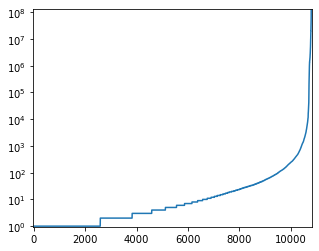
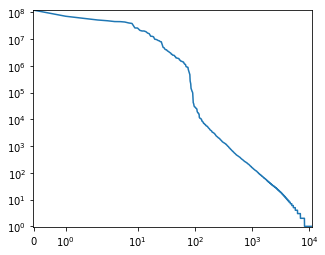
Add more stuff to the data exploration

diff --git a/thesis/thesis.html b/thesis/thesis.html
@@ -696,16 +696,74 @@ MathJax = {
 
     <h4 style="clear: both; padding-top: 30px;">Възможни символи</h4>
 
+    <p>
+      Броят символи, които се срещат в текстовете на статиите е 10797. Във <i>фиг. 3</i> е представена честотата на
+      срещане на всеки символ. Най-вляво по хоризонтала са изобразени най-често срещаните символи, а
+      най-вдясно&mdash;най-рядко срещаните, като скалата е логаритмична (т.е. на числото <i>n</i> отговаря n-тия
+      най-често срещан символ). По вертикала са изобразени броят срещания за всеки символ&mdash;отново върху
+      логаритмична скала.
+    </p>
+
+    <div style="float: left; margin: 10px 30px 10px 0;">
+      <img src="chars-density.png">
+      <i style="display: block; padding-left: 30px;">(фиг. 3)</i>
+    </div>
+
+    <p>
+      За такъв тип данни очакваме да важи емпирично установеният закон на Ципф<a href="#reference-zipfs-law"><sup>[x]</sup></a>.
+      Върху логаритмично-логаритмична графика това би изглеждало като права линия от най-често срещания символ (горе-ляво)
+      до най-рядко срещания (долу-дясно). Откриваме интересно отклонение в рамките на първите 100 символа. Освен това
+      е интересно, че ако разгледаме единствено 10-те най-често срещани символа, те изпълняват закона на Ципф.
+      С известно отклонение&mdash;същото може да се каже и първите 90 символа.
+    </p>
+
+    <p>
+      Първоначалната интуиция на автора е, че първите 10 символа изпъкват, защото са част от Wikitext синтаксиса.
+      При проверка се оказва, че символите са: интервал и буквите <i>e</i>, <i>a</i>, <i>t</i>, <i>i</i>, <i>o</i>, <i>n</i>, <i>r</i>, <i>s</i>, <i>l</i>.
+      Интуицията е невярна. Но в рамките на следващите 90 символа могат да бъдат видени символите от Wikitext синтаксиса.
+      Също така там се среща цялата латиница, всички десетични цифри, много пунктуационни знаци и кирилската буква <i>и</i>.
+    </p>
+
     <div>
-      <div style="float: left;">
-        <img src="chars-density.png">
-        <i style="display: block; padding-left: 30px;">(фиг. 3)</i>
-      </div>
-      <div style="float: left; margin-top: 3px;">
+      <div style="float: left; margin: 10px 30px 10px 0;">
         <img src="chars-distribution.png">
         <i style="display: block; padding-left: 30px;">(фиг. 4)</i>
       </div>
     </div>
+
+    <p>
+      Интересен е и друг прочит на данните. Графиката във <i>фиг. 4</i> изброява по хоризонтала символите по честота на
+      срещане&mdash;подобно на <i>фиг. 3</i>, но този път по линейна скала. За всеки символ по вертикала са разположени
+      сумата от броя срещанията на въпросния символ, както и броят срещания на всички по-рядко срещани от него символи.
+      Така <i>фиг. 4</i> до известна степен прилича на графика на дискретното кумулативно разпределение, но ротирано
+      около ординатната ос. Изобразени по този начин, данните могат да отговорят на въпроса:
+    </p>
+
+    <div style="text-align: center;">
+      ако се вземе подмножеството от <i>n</i> на брой най-често срещани символа,<br>
+      каква част от символите в набора от данни<br>
+      ще бъдат извън въпросното множество?
+    </div>
+
+    Например:
+    <ul>
+      <li>
+        ако се вземат първите 2000 символа, ще останат ~10<sup>5</sup> символа в набора от данни, които не са сред
+        тези 2000 символа;
+      </li>
+      <li>Ако се вземат 6000 символа, ще останат ~10<sup>4</sup>;</li>
+      <li>При 10000 символа, ще останат ~10<sup>3</sup>.</li>
+    </ul>
+
+    В граничните случаи:
+    <ul>
+      <li>ако се вземат всички символи, ще останат 0 невзети (долу-дясно в графиката);</li>
+      <li>ако не се вземат никакви символи, всички ще останат невзети (горе-ляво в графиката).</li>
+    </ul>
+
+    <p>
+      Тази интерпретация намира приложение в глава "7.2 Размер на азбуката".
+    </p>
 
     <h4 style="clear: both; padding-top: 30px;">Малки и големи букви</h4>
 
@@ -730,9 +788,9 @@ MathJax = {
     <h4 style="clear: both; padding-top: 30px;">Заглавия</h4>
 
     <div style="display: inline-flex;">
-      <div style="float: left; margin: 10px 30px 0 0;">
+      <div style="float: left; margin: 10px 30px 10px 0;">
         <img src="title-lengths.png">
-        <i style="display: block; padding-left: 30px;">(фиг. 8)</i>
+        <i style="display: block; padding-left: 30px; padding-bottom: 30px;">(фиг. 8)</i>
         <img src="title-lengths-log.png">
         <i style="display: block; padding-left: 30px;">(фиг. 9)</i>
       </div>
@@ -1104,6 +1162,9 @@ MathJax = {
       <li id="reference-data-exploration">
         Stratos Idreos, Olga Papaemmonouil, Surajit Chaudhuri. "Overview of Data Exploration Techniques". FOSTER Open Science.
         https://www.fosteropenscience.eu/sites/default/files/pdf/2933.pdf
+      </li>
+      <li id="reference-zipfs-law">
+        Powers, David M W (1998). "Applications and explanations of Zipf's law". Association for Computational Linguistics: 151–160.
       </li>
       <li id="reference-lstm">
         Sepp Hochreiter; Jürgen Schmidhuber (15 November 1997). "Long short-term memory".
